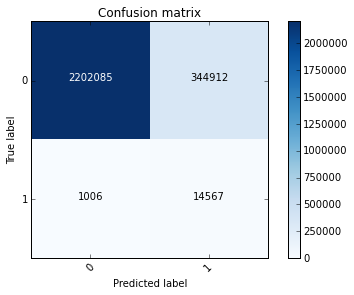
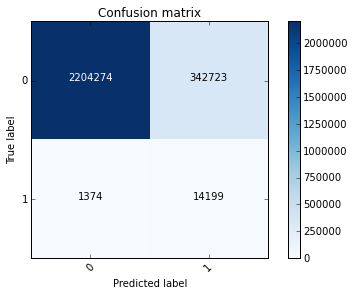
Test the markdown format

diff --git a/project/traffic.kp/knowledge.md b/project/traffic.kp/knowledge.md
@@ -10,7 +10,7 @@ created_at: 2017-05-30 00:00:00
 updated_at: 2017-06-02 00:00:00
 tldr: Given the cost of the API calls, we would like to investigate the possibility
   of using machine learning to predict the efficiency of the API calls.
-thumbnail: images/output_25_0.png
+thumbnail: images/output_26_0.png
 ---
 TL,DR: Given a partner and a hotel, use the model to predict whether there will be reservation call for the next day. The main takeaways are as follows:
 - The model metrics improves w.r.t. more features
@@ -143,9 +143,13 @@ X_test = df_test.drop(['label'], axis=1)
 y_pred_feat2 = get_preds('/Users/fezhao/Projects/traffic_manager/data/model_feat2.pkl', X_test)
 np.savetxt('/Users/fezhao/Projects/traffic_manager/data/y_pred_feat2.txt', y_pred_feat2, '%.8f')
 ```
+
+```python
+X_test.shape
+```
 # feat3 model
 
-12 Features：
+* 60 Features：
  - list_count_sum_[365d, 30d, 7d, prev]
  - avail_count_sum_[365d, 30d, 7d, prev]
  - res_count_sum_[365d, 30d, 7d, prev]
@@ -202,7 +206,7 @@ show_metrics(y_pred_feat0, y_test)
 ```
 
 
-![png](images/output_25_0.png)
+![png](images/output_26_0.png)
 
 
 
@@ -211,7 +215,7 @@ show_metrics(y_pred_feat1, y_test)
 ```
 
 
-![png](images/output_26_0.png)
+![png](images/output_27_0.png)
 
 
 
@@ -220,7 +224,7 @@ show_metrics(y_pred_feat2, y_test)
 ```
 
 
-![png](images/output_27_0.png)
+![png](images/output_28_0.png)
 
 
 
@@ -229,4 +233,4 @@ show_metrics(y_pred_feat3, y_test)
 ```
 
 
-![png](images/output_28_0.png)
+![png](images/output_29_0.png)
